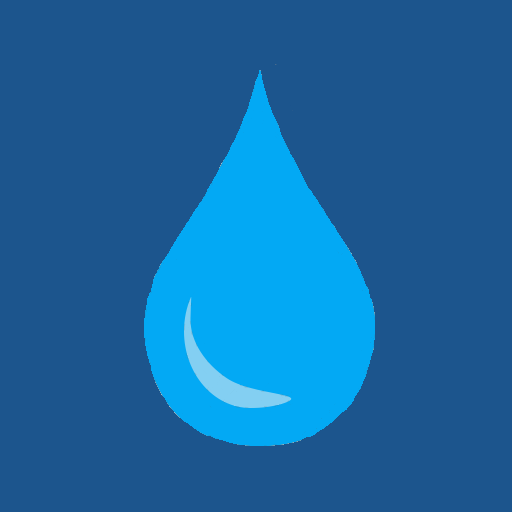
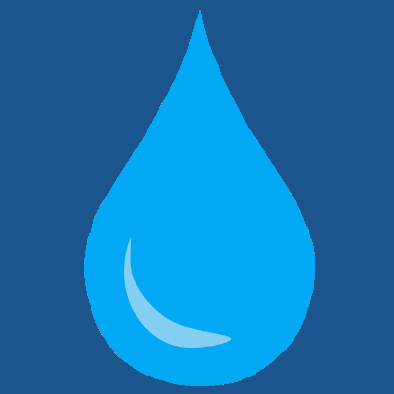
update 240621

Changed region(s): [[0.2132, 0.0305, 0.8223, 1.0]]

diff --git a/src/components/common/Sidebar.tsx b/src/components/common/Sidebar.tsx
@@ -53,7 +53,7 @@ const Sidebar = () => {
               >
                 <Avatar
                   src={assets.images.water}
-                  sx={{ width: 30, height: 30 }}
+                  sx={{ width: 25, height: 25 }}
                 />
                 <Stack
                   direction="row"
